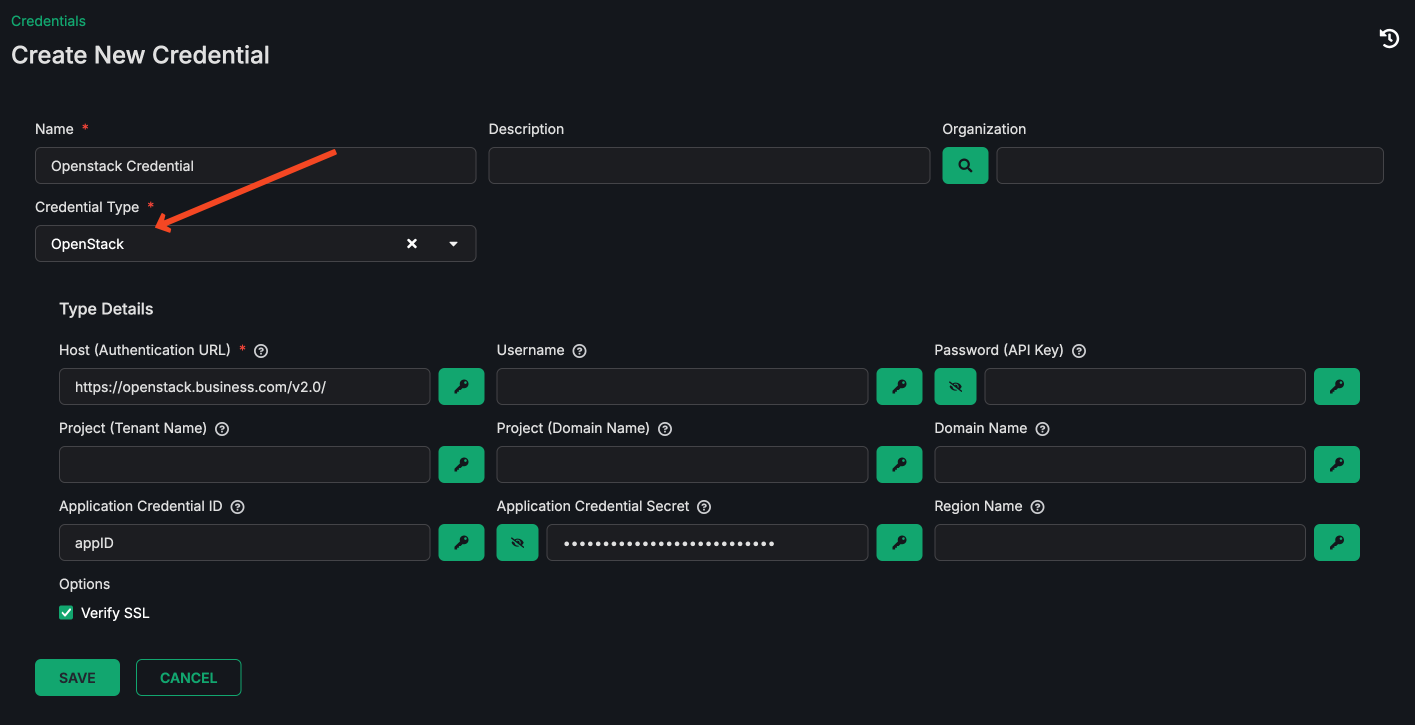
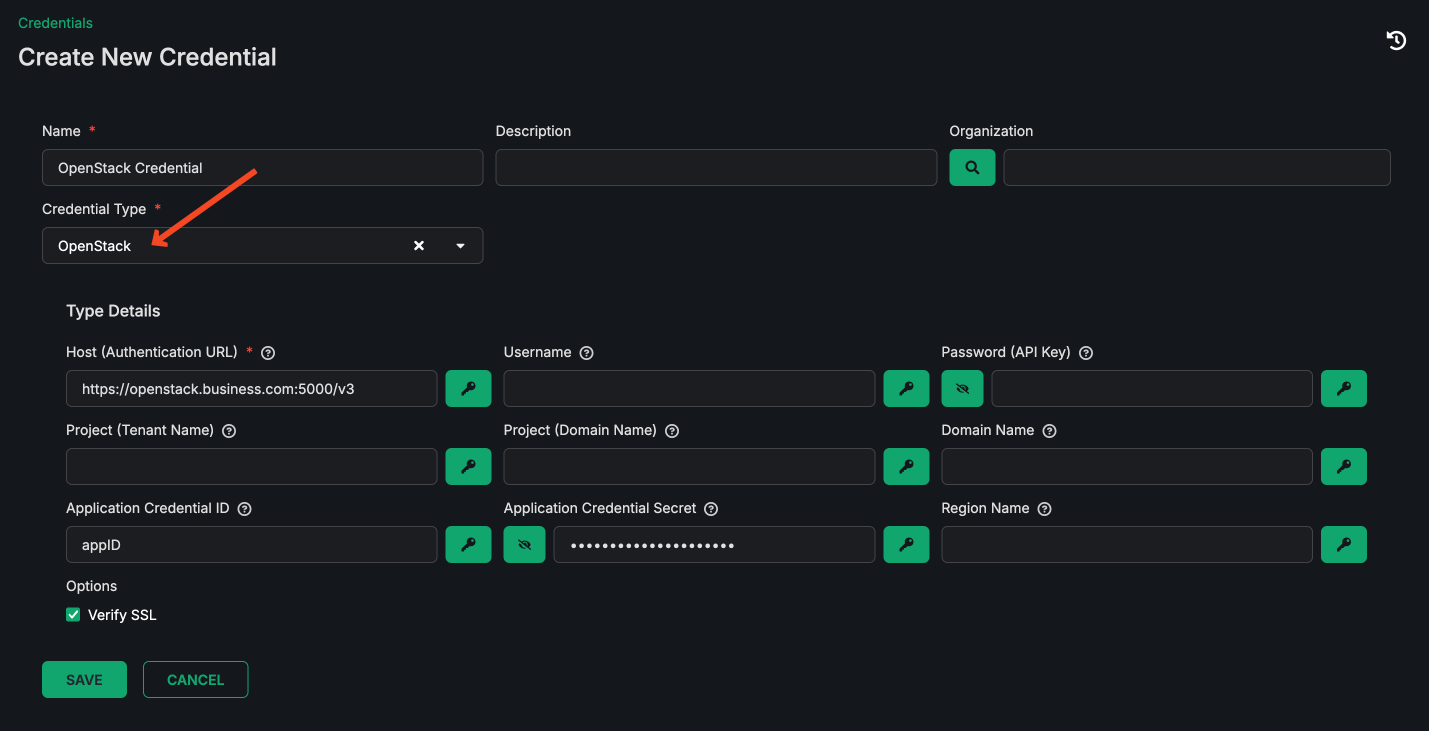
Use Keystone v3 example URL in host help text and screenshot
Address Copilot review: the host field's example URL was v2.0-style,
which does not work with application credential auth. Update the help
text example to a v3 URL and refresh the form screenshot to match.

Claude-Session: https://claude.ai/code/session_01MHxL2MTgkUzA4BCPGqs3hJ

diff --git a/awx/main/models/credential/__init__.py b/awx/main/models/credential/__init__.py
@@ -758,7 +758,7 @@ ManagedCredentialType(
                 'label': gettext_noop('Host (Authentication URL)'),
                 'type': 'string',
                 'help_text': gettext_noop(
-                    'The host to authenticate with. For example, https://openstack.business.com/v2.0/. '
+                    'The host to authenticate with. For example, https://openstack.business.com:5000/v3. '
                     'Authenticate with either a username and password or an application credential.'
                 ),
             },
